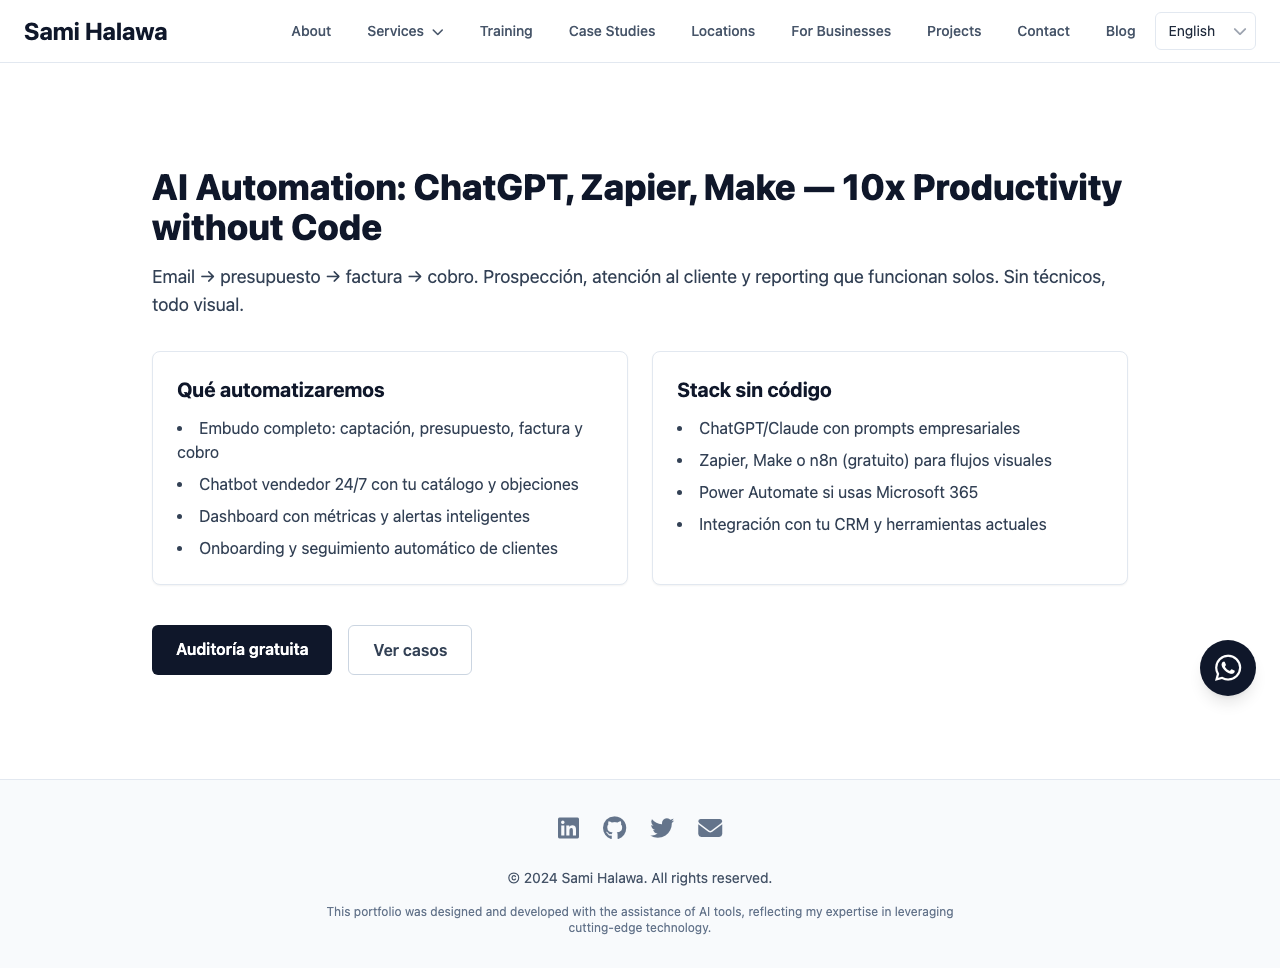
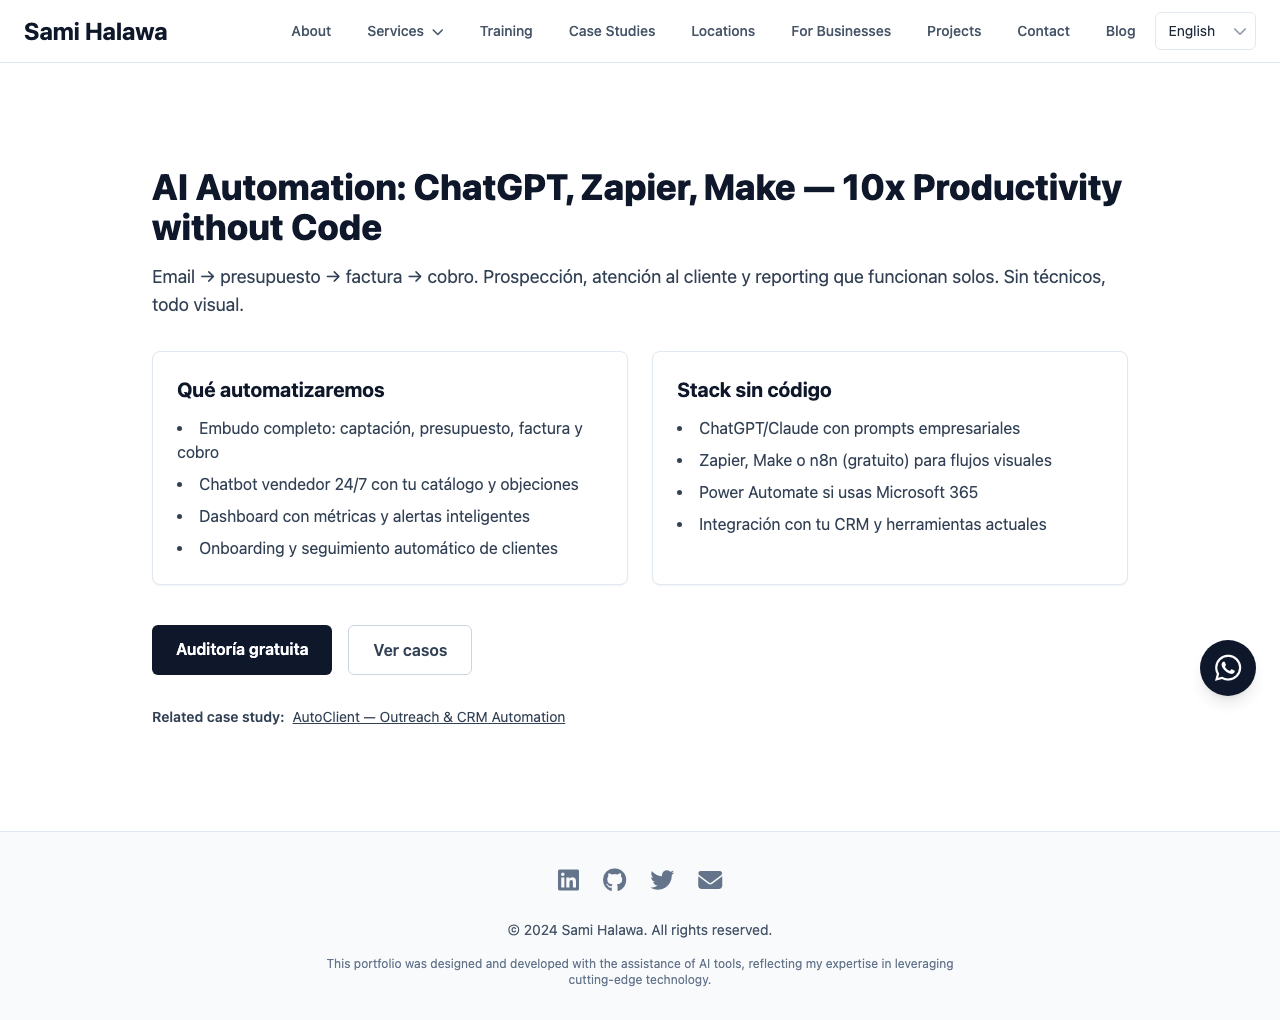
SEO content expansion: add 4 case studies (Banking Assistant, AI Spreadsheet Assistant, PropTech Analytics, Airbnb Intelligence) with OG + TechArticle schema; link related case studies from services; add Training OG; update routes and sitemap; build + Playwright tests pass.

diff --git a/pages/case-studies/BankingAssistant.tsx b/pages/case-studies/BankingAssistant.tsx
@@ -1,0 +1,41 @@
+import React from 'react';
+import { Helmet } from 'react-helmet-async';
+
+const BankingAssistant: React.FC = () => {
+  const title = 'Case Study: Intelligent Banking Assistant — Self-Service & Personalization';
+  const description = 'Deployed a conversational banking assistant to improve self-service, deliver personalized insights, and reduce support costs.';
+  const jsonLd = {
+    '@context': 'https://schema.org', '@type': 'TechArticle', headline: title,
+    about: 'Banking AI, Conversational AI, Personal Finance', description,
+    author: { '@type': 'Person', name: 'Sami Halawa' }
+  };
+  const og = 'https://images.unsplash.com/photo-1556767576-cf63a644b5f2?auto=format&fit=crop&w=1200&h=630&q=80';
+  return (
+    <section className="py-16 bg-white">
+      <Helmet>
+        <title>{title} | Sami Halawa</title>
+        <meta name="description" content={description} />
+        <meta property="og:title" content={title} />
+        <meta property="og:description" content={description} />
+        <meta property="og:image" content={og} />
+        <meta name="twitter:image" content={og} />
+        <link rel="canonical" href="/case-studies/banking-assistant" />
+        <script type="application/ld+json">{JSON.stringify(jsonLd)}</script>
+      </Helmet>
+      <div className="container mx-auto px-6 max-w-3xl">
+        <h1 className="text-3xl md:text-4xl font-extrabold text-slate-900 mb-4">{title}</h1>
+        <p className="text-slate-700 mb-6">We delivered a secure, compliance‑aware assistant with clear guardrails, tailored prompts and KPI dashboards. Outcomes: higher self‑service rate, shorter handle time, and improved NPS.</p>
+        <h2 className="text-xl font-bold text-slate-900 mb-2">Highlights</h2>
+        <ul className="list-disc list-inside text-slate-700 space-y-1 mb-6">
+          <li>Personalized budgeting and insights</li>
+          <li>Fraud alerts and smart notifications</li>
+          <li>Secure integration with banking APIs</li>
+          <li>Evaluation pipeline and cost controls</li>
+        </ul>
+      </div>
+    </section>
+  );
+};
+
+export default BankingAssistant;
+

diff --git a/pages/case-studies/SpreadsheetAssistant.tsx b/pages/case-studies/SpreadsheetAssistant.tsx
@@ -1,0 +1,37 @@
+import React from 'react';
+import { Helmet } from 'react-helmet-async';
+
+const SpreadsheetAssistant: React.FC = () => {
+  const title = 'Case Study: AI Spreadsheet Assistant — Natural Language to Formulas';
+  const description = 'Enabled business users to query, clean and transform data using natural language, with anomaly flags and insights.';
+  const jsonLd = { '@context': 'https://schema.org', '@type': 'TechArticle', headline: title, about: 'Productivity, Data Analysis, NL2SQL', description, author: { '@type': 'Person', name: 'Sami Halawa' } };
+  const og = 'https://images.unsplash.com/photo-1551288049-bebda4e38f71?auto=format&fit=crop&w=1200&h=630&q=80';
+  return (
+    <section className="py-16 bg-white">
+      <Helmet>
+        <title>{title} | Sami Halawa</title>
+        <meta name="description" content={description} />
+        <meta property="og:title" content={title} />
+        <meta property="og:description" content={description} />
+        <meta property="og:image" content={og} />
+        <meta name="twitter:image" content={og} />
+        <link rel="canonical" href="/case-studies/spreadsheet-assistant" />
+        <script type="application/ld+json">{JSON.stringify(jsonLd)}</script>
+      </Helmet>
+      <div className="container mx-auto px-6 max-w-3xl">
+        <h1 className="text-3xl md:text-4xl font-extrabold text-slate-900 mb-4">{title}</h1>
+        <p className="text-slate-700 mb-6">We built prompt patterns and guardrails for transformations, added anomaly detection, and introduced a review mode to ensure reliability across datasets.</p>
+        <h2 className="text-xl font-bold text-slate-900 mb-2">Highlights</h2>
+        <ul className="list-disc list-inside text-slate-700 space-y-1 mb-6">
+          <li>Natural language to formulas and charts</li>
+          <li>Reusable prompt templates with evals</li>
+          <li>Anomaly flags and explanations</li>
+          <li>Adoption playbook and training sessions</li>
+        </ul>
+      </div>
+    </section>
+  );
+};
+
+export default SpreadsheetAssistant;
+

diff --git a/pages/case-studies/ProptechAnalytics.tsx b/pages/case-studies/ProptechAnalytics.tsx
@@ -1,0 +1,37 @@
+import React from 'react';
+import { Helmet } from 'react-helmet-async';
+
+const ProptechAnalytics: React.FC = () => {
+  const title = 'Case Study: PropTech Analytics — Pipelines, Valuation & KPIs';
+  const description = 'Built real estate data pipelines, valuation models and dashboards to surface opportunities and trends.';
+  const jsonLd = { '@context': 'https://schema.org', '@type': 'TechArticle', headline: title, about: 'PropTech, Real Estate Analytics', description, author: { '@type': 'Person', name: 'Sami Halawa' } };
+  const og = 'https://images.unsplash.com/photo-1460353581641-37baddab0fa2?auto=format&fit=crop&w=1200&h=630&q=80';
+  return (
+    <section className="py-16 bg-white">
+      <Helmet>
+        <title>{title} | Sami Halawa</title>
+        <meta name="description" content={description} />
+        <meta property="og:title" content={title} />
+        <meta property="og:description" content={description} />
+        <meta property="og:image" content={og} />
+        <meta name="twitter:image" content={og} />
+        <link rel="canonical" href="/case-studies/proptech-analytics" />
+        <script type="application/ld+json">{JSON.stringify(jsonLd)}</script>
+      </Helmet>
+      <div className="container mx-auto px-6 max-w-3xl">
+        <h1 className="text-3xl md:text-4xl font-extrabold text-slate-900 mb-4">{title}</h1>
+        <p className="text-slate-700 mb-6">End‑to‑end pipeline from ingestion to dashboards, including cleaning, scoring and alerting to prioritize the best opportunities.</p>
+        <h2 className="text-xl font-bold text-slate-900 mb-2">Highlights</h2>
+        <ul className="list-disc list-inside text-slate-700 space-y-1 mb-6">
+          <li>Consolidated multi‑source property data</li>
+          <li>Valuation and opportunity scoring</li>
+          <li>Market trends and geo insights</li>
+          <li>Dashboards and alerting playbooks</li>
+        </ul>
+      </div>
+    </section>
+  );
+};
+
+export default ProptechAnalytics;
+

diff --git a/pages/case-studies/AirbnbIntelligence.tsx b/pages/case-studies/AirbnbIntelligence.tsx
@@ -1,0 +1,37 @@
+import React from 'react';
+import { Helmet } from 'react-helmet-async';
+
+const AirbnbIntelligence: React.FC = () => {
+  const title = 'Case Study: Airbnb Market Intelligence — Pricing & Occupancy';
+  const description = 'Collected and analyzed listings to optimize pricing and occupancy for short‑term rentals with dashboards and alerts.';
+  const jsonLd = { '@context': 'https://schema.org', '@type': 'TechArticle', headline: title, about: 'STR, Pricing, Occupancy', description, author: { '@type': 'Person', name: 'Sami Halawa' } };
+  const og = 'https://images.unsplash.com/photo-1429704658776-3d38c9990511?auto=format&fit=crop&w=1200&h=630&q=80';
+  return (
+    <section className="py-16 bg-white">
+      <Helmet>
+        <title>{title} | Sami Halawa</title>
+        <meta name="description" content={description} />
+        <meta property="og:title" content={title} />
+        <meta property="og:description" content={description} />
+        <meta property="og:image" content={og} />
+        <meta name="twitter:image" content={og} />
+        <link rel="canonical" href="/case-studies/airbnb-intelligence" />
+        <script type="application/ld+json">{JSON.stringify(jsonLd)}</script>
+      </Helmet>
+      <div className="container mx-auto px-6 max-w-3xl">
+        <h1 className="text-3xl md:text-4xl font-extrabold text-slate-900 mb-4">{title}</h1>
+        <p className="text-slate-700 mb-6">We built a clean data pipeline, benchmarking models and KPI dashboards to power acquisition and dynamic pricing decisions.</p>
+        <h2 className="text-xl font-bold text-slate-900 mb-2">Highlights</h2>
+        <ul className="list-disc list-inside text-slate-700 space-y-1 mb-6">
+          <li>Listings collection and cleaning</li>
+          <li>Pricing and occupancy models</li>
+          <li>Competitor benchmarking</li>
+          <li>Dashboards and alerts for decisions</li>
+        </ul>
+      </div>
+    </section>
+  );
+};
+
+export default AirbnbIntelligence;
+

diff --git a/App.tsx b/App.tsx
@@ -42,6 +42,10 @@ const CaseStudiesIndex = lazy(() => import('./pages/case-studies/Index'));
 const RadiologyAI = lazy(() => import('./pages/case-studies/RadiologyAI'));
 const AutoClientCase = lazy(() => import('./pages/case-studies/AutoClient'));
 const AttioSequences = lazy(() => import('./pages/case-studies/AttioSequences'));
+const BankingAssistant = lazy(() => import('./pages/case-studies/BankingAssistant'));
+const SpreadsheetAssistant = lazy(() => import('./pages/case-studies/SpreadsheetAssistant'));
+const ProptechCase = lazy(() => import('./pages/case-studies/ProptechAnalytics'));
+const AirbnbCase = lazy(() => import('./pages/case-studies/AirbnbIntelligence'));
 const MadridAIReadiness = lazy(() => import('./pages/locations/services/MadridAIReadiness'));
 const BarcelonaPromptEngineering = lazy(() => import('./pages/locations/services/BarcelonaPromptEngineering'));
 const ValenciaRagLangChain = lazy(() => import('./pages/locations/services/ValenciaRagLangChain'));
@@ -76,6 +80,10 @@ const App: React.FC = () => {
                             <Route path="case-studies/radiology-ai" element={<RadiologyAI />} />
                             <Route path="case-studies/autoclient" element={<AutoClientCase />} />
                             <Route path="case-studies/attio-sequences" element={<AttioSequences />} />
+                            <Route path="case-studies/banking-assistant" element={<BankingAssistant />} />
+                            <Route path="case-studies/spreadsheet-assistant" element={<SpreadsheetAssistant />} />
+                            <Route path="case-studies/proptech-analytics" element={<ProptechCase />} />
+                            <Route path="case-studies/airbnb-intelligence" element={<AirbnbCase />} />
                             <Route path="services" element={<ServicesLayout />}>
                                 <Route index element={<ServicesIndex />} />
                                 <Route path="medical-ai" element={<MedicalAI />} />

diff --git a/pages/case-studies/Index.tsx b/pages/case-studies/Index.tsx
@@ -6,6 +6,10 @@ const cases = [
   { href: '/case-studies/radiology-ai', title: 'RadiologyAI — Clinical Reporting & Triage', desc: 'Reduced report time by 70% with clinical ChatGPT and imaging support.' },
   { href: '/case-studies/autoclient', title: 'AutoClient — Outreach & CRM Automation', desc: 'Automated prospecting, outreach and CRM sync with an AI agent.' },
   { href: '/case-studies/attio-sequences', title: 'Attio Sequences — Reverse Engineering', desc: 'Deep-dive analysis and replication roadmap for a sequencing platform.' },
+  { href: '/case-studies/banking-assistant', title: 'Banking Assistant — Self‑Service & Personalization', desc: 'Conversational banking to increase self‑service and NPS.' },
+  { href: '/case-studies/spreadsheet-assistant', title: 'AI Spreadsheet Assistant — NL to Formulas', desc: 'Natural language transforms with evals and anomaly flags.' },
+  { href: '/case-studies/proptech-analytics', title: 'PropTech Analytics — Pipelines & Valuation', desc: 'Data pipelines, valuation models and dashboards.' },
+  { href: '/case-studies/airbnb-intelligence', title: 'Airbnb Intelligence — Pricing & Occupancy', desc: 'Market intelligence and dashboards for STR portfolios.' },
 ];
 
 const CaseStudiesIndex: React.FC = () => {
@@ -32,4 +36,3 @@ const CaseStudiesIndex: React.FC = () => {
 };
 
 export default CaseStudiesIndex;
-

diff --git a/pages/services/AIReadinessAudit.tsx b/pages/services/AIReadinessAudit.tsx
@@ -44,6 +44,12 @@ const AIReadinessAudit: React.FC = () => {
           <Link to="/contact" className="inline-block bg-slate-900 text-white px-6 py-3 rounded-md font-semibold hover:bg-slate-800">Book an audit</Link>
           <Link to="/services/troubleshooting" className="inline-block bg-white text-slate-700 px-6 py-3 rounded-md border border-slate-300 font-semibold hover:bg-slate-100">See troubleshooting</Link>
         </div>
+        <div className="mt-8 text-sm text-slate-700">
+          <span className="font-semibold">Related case studies:</span>
+          <a className="ml-2 underline" href="/case-studies/attio-sequences">Attio Sequences — Reverse Engineering</a>
+          <span className="mx-1">·</span>
+          <a className="underline" href="/case-studies/autoclient">AutoClient — Outreach & CRM Automation</a>
+        </div>
       </div>
     </section>
   );

diff --git a/pages/TrainingOverview.tsx b/pages/TrainingOverview.tsx
@@ -74,6 +74,8 @@ const TrainingOverview: React.FC = () => {
         <meta name="description" content={description} />
         <meta property="og:title" content={title} />
         <meta property="og:description" content={description} />
+        <meta property="og:image" content="https://images.unsplash.com/photo-1513258496099-48168024aec0?auto=format&fit=crop&w=1200&h=630&q=80" />
+        <meta name="twitter:image" content="https://images.unsplash.com/photo-1513258496099-48168024aec0?auto=format&fit=crop&w=1200&h=630&q=80" />
         <link rel="canonical" href="/ai-training" />
         <script type="application/ld+json">{JSON.stringify(itemListJsonLd)}</script>
         <script type="application/ld+json">{JSON.stringify(faqJsonLd)}</script>

diff --git a/pages/services/RagLangChain.tsx b/pages/services/RagLangChain.tsx
@@ -67,6 +67,10 @@ const RagLangChain: React.FC = () => {
           <Link to="/contact" className="inline-block bg-slate-900 text-white px-6 py-3 rounded-md font-semibold hover:bg-slate-800">Book a workshop</Link>
           <Link to="/services/advanced-ai" className="inline-block bg-white text-slate-700 px-6 py-3 rounded-md border border-slate-300 font-semibold hover:bg-slate-100">See advanced AI</Link>
         </div>
+        <div className="mt-8 text-sm text-slate-700">
+          <span className="font-semibold">Related case study:</span>
+          <a className="ml-2 underline" href="/case-studies/spreadsheet-assistant">AI Spreadsheet Assistant — NL to Formulas</a>
+        </div>
       </div>
     </section>
   );

diff --git a/pages/services/AIForMarketing.tsx b/pages/services/AIForMarketing.tsx
@@ -68,6 +68,10 @@ const AIForMarketing: React.FC = () => {
           <Link to="/contact" className="inline-block bg-slate-900 text-white px-6 py-3 rounded-md font-semibold hover:bg-slate-800">Request a training plan</Link>
           <Link to="/services/no-code-ai" className="inline-block bg-white text-slate-700 px-6 py-3 rounded-md border border-slate-300 font-semibold hover:bg-slate-100">See no-code creator</Link>
         </div>
+        <div className="mt-8 text-sm text-slate-700">
+          <span className="font-semibold">Related case study:</span>
+          <a className="ml-2 underline" href="/case-studies/autoclient">AutoClient — Outreach & CRM Automation</a>
+        </div>
       </div>
     </section>
   );

diff --git a/pages/services/BusinessAutomation.tsx b/pages/services/BusinessAutomation.tsx
@@ -73,6 +73,10 @@ const BusinessAutomation: React.FC = () => {
           ]} />
         </div>
         <CTA />
+        <div className="mt-8 text-sm text-slate-700">
+          <span className="font-semibold">Related case study:</span>
+          <a className="ml-2 underline" href="/case-studies/autoclient">AutoClient — Outreach & CRM Automation</a>
+        </div>
       </div>
     </section>
   );

diff --git a/pages/services/MedicalAI.tsx b/pages/services/MedicalAI.tsx
@@ -72,6 +72,10 @@ const MedicalAI: React.FC = () => {
           ]} />
         </div>
         <CTA />
+        <div className="mt-8 text-sm text-slate-700">
+          <span className="font-semibold">Related case study:</span>
+          <a className="ml-2 underline" href="/case-studies/radiology-ai">RadiologyAI — Clinical Reporting & Triage</a>
+        </div>
       </div>
     </section>
   );
